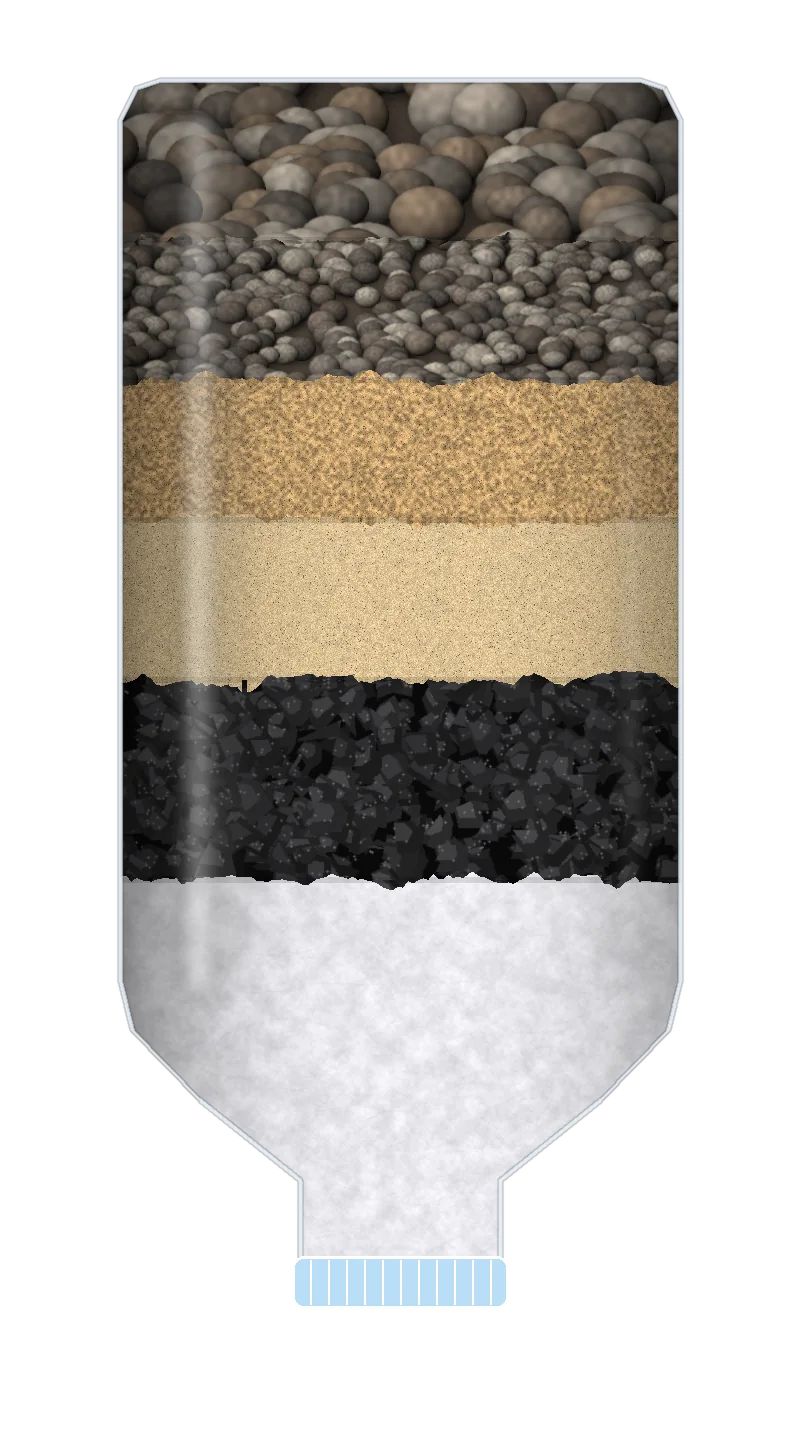
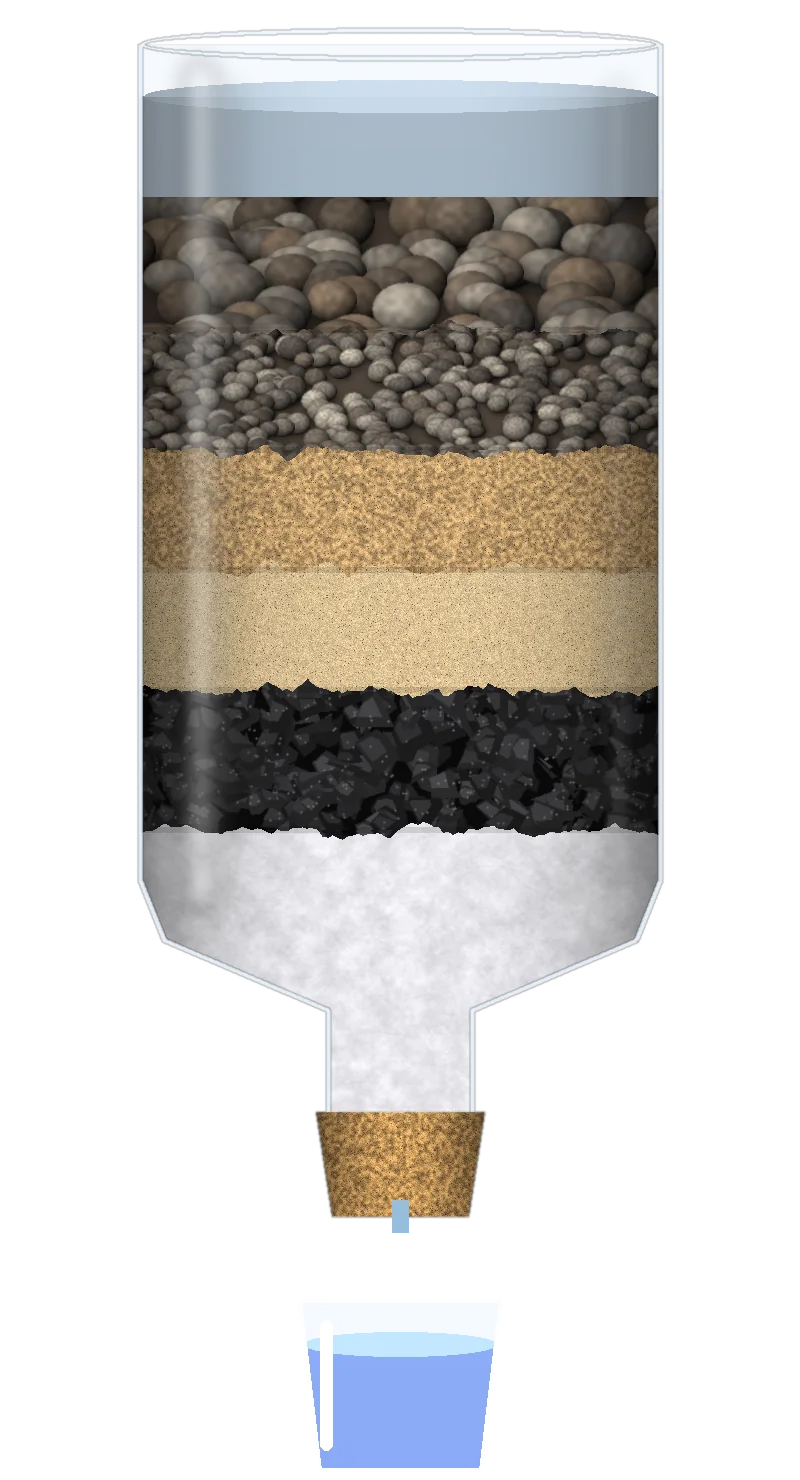
Filtro de estratos: botella invertida con agua, tapón y vaso
Claude-Session: https://claude.ai/code/session_01SexRLrM5PtoCadYtr9VbF9

diff --git a/index.html b/index.html
@@ -173,7 +173,7 @@ h2.t.w{color:#fff;text-shadow:0 2px 12px rgba(0,0,0,.25)}
 #s8 .warn p span{display:block;color:var(--pt);font-size:17px;margin-top:6px}
 
 /* S9 filtro */
-#s9 svg.bottle{position:absolute;left:470px;top:150px}
+#s9 svg.bottle{position:absolute;left:480px;top:168px}
 #s9 .lab{position:absolute;left:880px;display:flex;align-items:center;cursor:pointer}
 #s9 .lab .ln{width:110px;height:2px;background:#fff;box-shadow:0 1px 3px rgba(0,0,0,.3);position:relative}
 #s9 .lab .ln::before{content:"";position:absolute;left:-6px;top:-5px;width:12px;height:12px;border-radius:50%;background:#fff}
@@ -532,15 +532,15 @@ h2.t.w{color:#fff;text-shadow:0 2px 12px rgba(0,0,0,.25)}
 <!-- 9 -->
 <section class="slide g5" id="s9" data-notes="<b>Filtro de estratos (4 min).</b> Hacer clic en cada etiqueta o capa y preguntar al curso su función antes de leerla. Montaje desde la salida hacia arriba.">
   <h2 class="t c a">Proyecto Práctico: <b>Filtro de Estratos</b><span class="pt">Projeto Prático: Filtro de Camadas</span></h2>
-  <svg class="bottle a" style="--d:1" width="400" height="720" viewBox="0 0 400 720">
-    <image href="assets/filtro-estratos.webp" x="0" y="0" width="400" height="720"/>
-    <rect class="lay" data-i="0" x="60" y="40" width="300" height="80" fill="#fff" fill-opacity="0"/>
-    <rect class="lay" data-i="1" x="60" y="120" width="300" height="70" fill="#fff" fill-opacity="0"/>
-    <rect class="lay" data-i="2" x="60" y="190" width="300" height="70" fill="#fff" fill-opacity="0"/>
-    <rect class="lay" data-i="3" x="60" y="260" width="300" height="80" fill="#fff" fill-opacity="0"/>
-    <rect class="lay" data-i="4" x="60" y="340" width="300" height="100" fill="#fff" fill-opacity="0"/>
-    <rect class="lay" data-i="5" x="60" y="440" width="300" height="190" fill="#fff" fill-opacity="0"/>
-    <g fill="#7fc4f2"><path class="drip" d="M200 662c0 0-8 10-8 15a8 8 0 0016 0c0-5-8-15-8-15z"/><path class="drip" style="animation-delay:.6s" d="M182 662c0 0-6 8-6 12a6 6 0 0012 0c0-4-6-12-6-12z"/><path class="drip" style="animation-delay:1.2s" d="M218 662c0 0-6 8-6 12a6 6 0 0012 0c0-4-6-12-6-12z"/></g>
+  <svg class="bottle a" style="--d:1" width="380" height="703" viewBox="0 0 400 740">
+    <image href="assets/filtro-estratos.webp?v=2" x="0" y="0" width="400" height="740"/>
+    <rect class="lay" data-i="0" x="70" y="95" width="260" height="70" fill="#fff" fill-opacity="0"/>
+    <rect class="lay" data-i="1" x="70" y="165" width="260" height="60" fill="#fff" fill-opacity="0"/>
+    <rect class="lay" data-i="2" x="70" y="225" width="260" height="60" fill="#fff" fill-opacity="0"/>
+    <rect class="lay" data-i="3" x="70" y="285" width="260" height="60" fill="#fff" fill-opacity="0"/>
+    <rect class="lay" data-i="4" x="70" y="345" width="260" height="70" fill="#fff" fill-opacity="0"/>
+    <rect class="lay" data-i="5" x="70" y="415" width="260" height="150" fill="#fff" fill-opacity="0"/>
+    <g fill="#7fc4f2"><path class="drip" d="M200 620c0 0-6 8-6 12a6 6 0 0012 0c0-4-6-12-6-12z"/><path class="drip" style="animation-delay:.9s" d="M200 620c0 0-6 8-6 12a6 6 0 0012 0c0-4-6-12-6-12z"/></g>
   </svg>
   <div id="flabs"></div>
   <div class="abs glass info a" id="finfo" style="--d:2"></div>
@@ -792,12 +792,12 @@ function pick(k){[...zt.querySelectorAll('img')].forEach((m,j)=>m.classList.togg
 selZ(0);
 
 /* S9 filtro */
-const L=[['Grava gruesa','Cascalho grosso','Distribuye el flujo y retiene los sólidos más grandes.','Distribui o fluxo e retém os sólidos maiores.',80],
- ['Grava fina','Cascalho fino','Retiene partículas que pasaron la primera capa.','Retém partículas que passaram pela primeira camada.',155],
- ['Arena gruesa','Areia grossa','Retiene partículas de mayor tamaño que atravesaron la grava.','Retém partículas maiores que atravessaram o cascalho.',225],
- ['Arena fina','Areia fina','Retiene partículas más pequeñas y reduce la turbiedad.','Retém partículas menores e reduz a turbidez.',300],
- ['Carbón activado','Carvão ativado','Adsorbe determinadas sustancias disueltas e impurezas.','Adsorve determinadas substâncias dissolvidas e impurezas.',390],
- ['Algodón / geotextil','Algodão / geotêxtil','Retiene partículas finas y evita que el material filtrante escape.','Retém partículas finas e evita a perda do material filtrante.',520]];
+const L=[['Grava gruesa','Cascalho grosso','Distribuye el flujo y retiene los sólidos más grandes.','Distribui o fluxo e retém os sólidos maiores.',141],
+ ['Grava fina','Cascalho fino','Retiene partículas que pasaron la primera capa.','Retém partículas que passaram pela primeira camada.',203],
+ ['Arena gruesa','Areia grossa','Retiene partículas de mayor tamaño que atravesaron la grava.','Retém partículas maiores que atravessaram o cascalho.',260],
+ ['Arena fina','Areia fina','Retiene partículas más pequeñas y reduce la turbiedad.','Retém partículas menores e reduz a turbidez.',317],
+ ['Carbón activado','Carvão ativado','Adsorbe determinadas sustancias disueltas e impurezas.','Adsorve determinadas substâncias dissolvidas e impurezas.',379],
+ ['Algodón / geotextil','Algodão / geotêxtil','Retiene partículas finas y evita que el material filtrante escape.','Retém partículas finas e evita a perda do material filtrante.',462]];
 const fl=document.getElementById('flabs'),fi=document.getElementById('finfo');
 L.forEach((l,i)=>{const d=document.createElement('div');d.className='lab a';d.style.cssText=`top:${150+l[4]-24}px;--d:${i+2}`;d.innerHTML=`<div class="ln"></div><div class="pill">${l[0]} / <span>${l[1]}</span></div>`;d.onclick=()=>selL(i);fl.appendChild(d)});
 document.querySelectorAll('#s9 .lay').forEach(r=>r.addEventListener('click',()=>selL(+r.dataset.i)));
